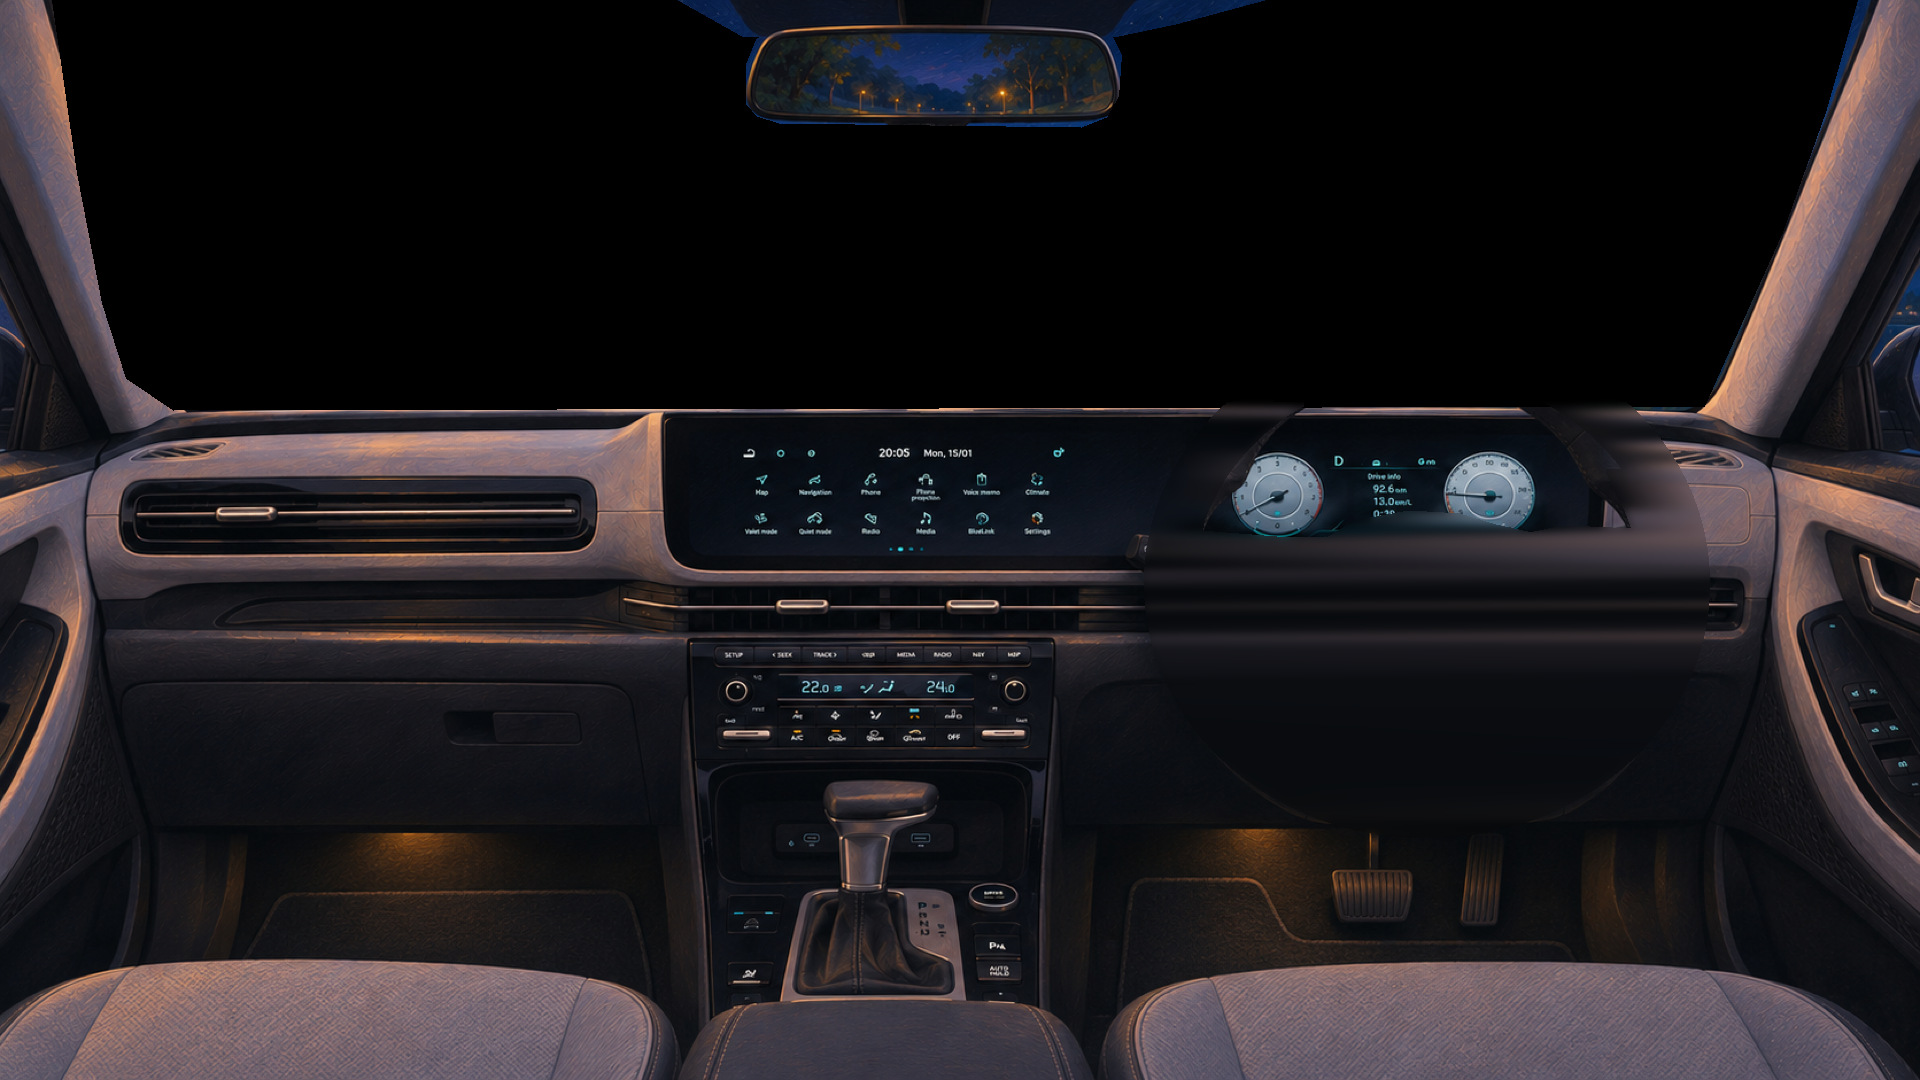
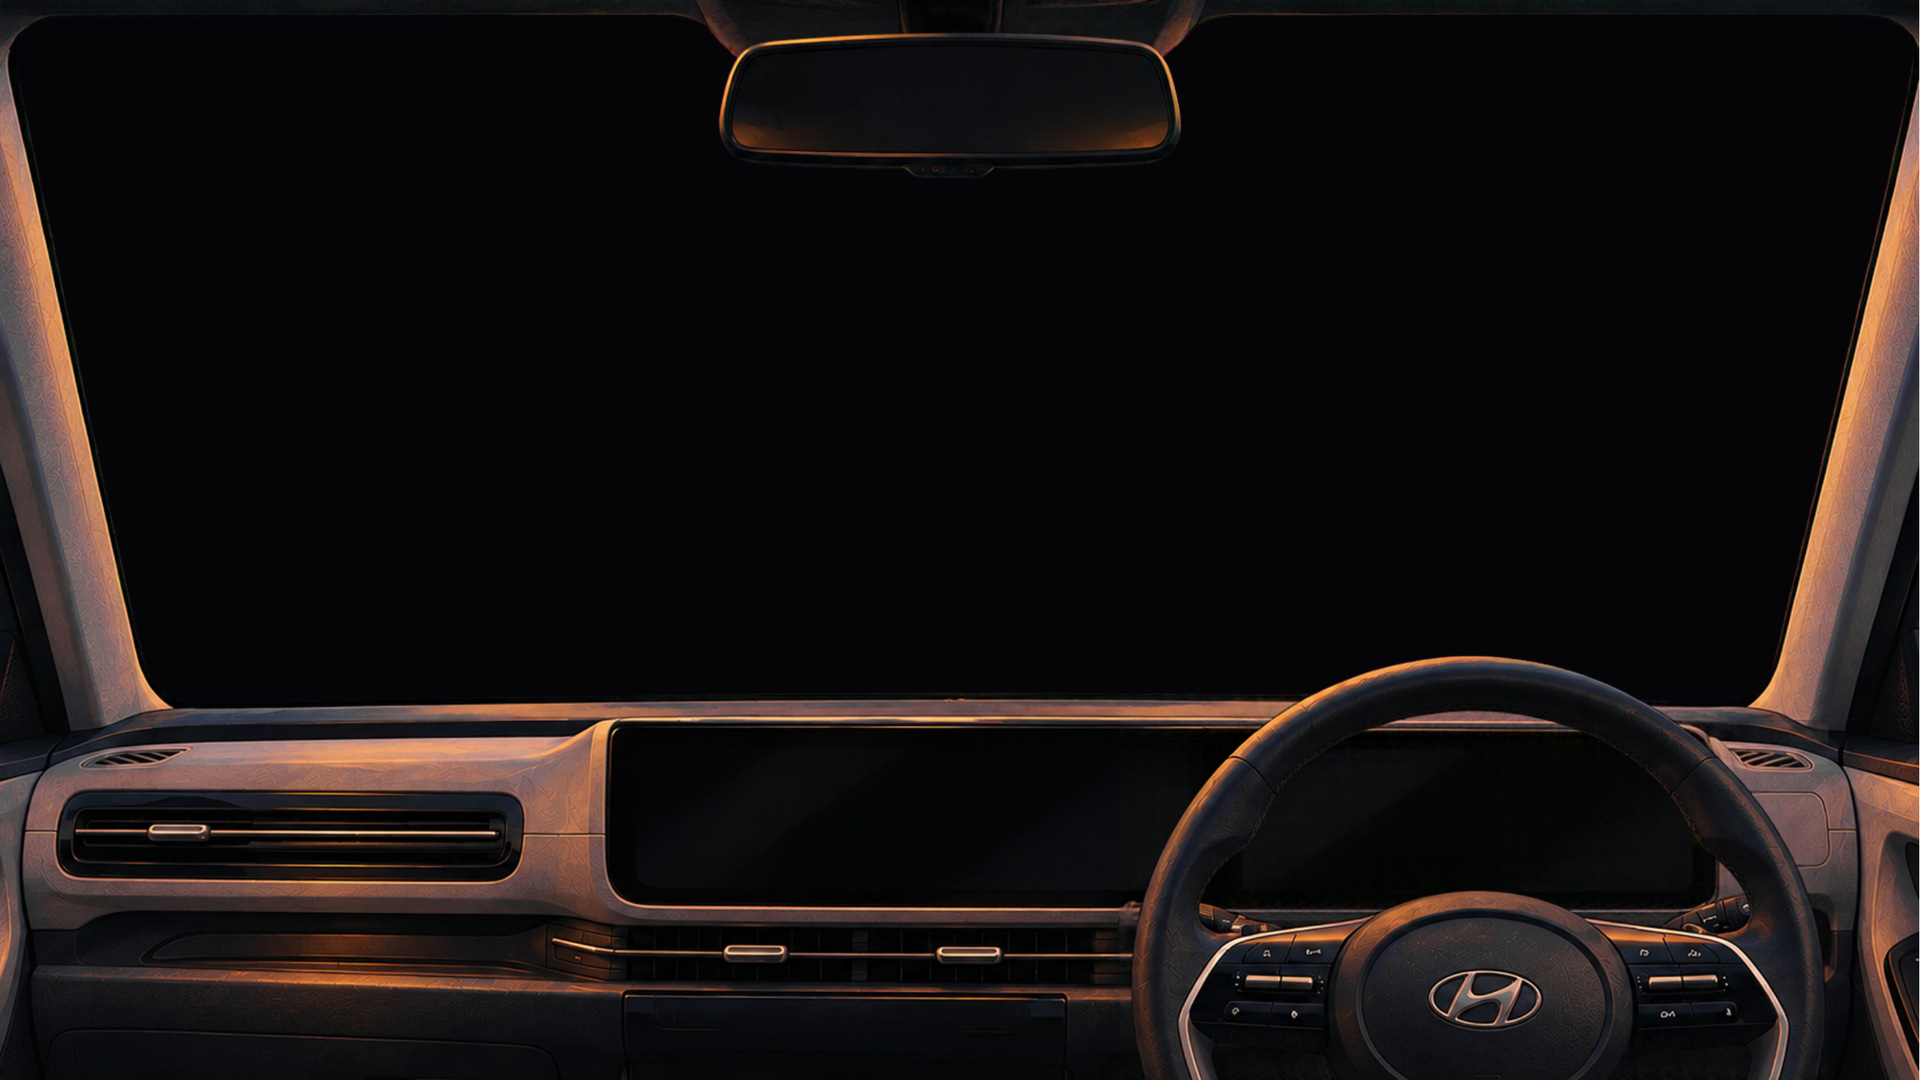
Night Drive: the Canva cabin, a mirror that reflects, version 1.2.1
- A new painted cabin, made in Canva from the original painting: the
  windscreen fills most of the view, with only the dashboard, the dual
  display and the top half of the wheel below. Its windows were painted as
  flat chroma key, so the glass (and the A-pillars) come straight from the
  picture.
- The steering wheel is part of the painting again (no more rotation
  artefacts or clipped rim).
- The rear-view mirror shows the road behind, receding.
- The dual display shows the song's bars on the infotainment side and the
  live cluster behind the wheel, drawn only where the panel is visible.
- The horizon sits lower, so more road shows; raindrops no longer get cut at
  their grid's seams; calmer glare on the road lines.

Claude-Session: https://claude.ai/code/session_01Dq9uaYLZ14tYd3nuL5CVKq

diff --git a/Sources/Encore/UI/Visualizers/MetalShaders.swift b/Sources/Encore/UI/Visualizers/MetalShaders.swift
@@ -736,8 +736,8 @@ static float3 driveRain(float2 uv, float t, float since) {
         float2 f = fract(g) - 0.5;
         float h = hash2(id + fl * 11.0);
         if (h > 0.45 && fract(h * 31.0) < fill) {
-            float2 o = (float2(hash2(id + 1.7), hash2(id + 4.3)) - 0.5) * 0.6;
-            float r = 0.16 + 0.22 * fract(h * 17.0);
+            float2 o = (float2(hash2(id + 1.7), hash2(id + 4.3)) - 0.5) * 0.36;   // drops stay inside their cell
+            float r = 0.13 + 0.16 * fract(h * 17.0);
             float2 dp = (f - o) * float2(1.0, 1.15);
             float m = 1.0 - smoothstep(r * 0.8, r, length(dp));
             off += dp / r * 0.012 * m;
@@ -754,7 +754,7 @@ static float3 driveRain(float2 uv, float t, float since) {
     off += dp / 0.009 * 0.012 * m;
     mask = max(mask, m);
     float trail = (1.0 - smoothstep(0.0015, 0.003, abs(x))) * smoothstep(y, y + 0.25, uv.y) * step(uv.y, y + 0.25) * on;
-    return float3(off, max(mask, trail * 0.5));
+    return float3(off, max(mask, trail * 0.25));
 }
 
 // ================================================================ Night Drive (lofi)
@@ -1357,8 +1357,8 @@ static float3 pdUntonemap(float3 v) {
 // lights add HDR on top so they bloom. Coordinates: painting pixels (1920x1080,
 // y down), the painted cabin's space.
 
-#define NW_HZ 345.0
-#define NW_VX 905.0
+#define NW_HZ 468.0
+#define NW_VX 1180.0
 #define NW_F 1150.0
 #define NW_CAMH 1.3
 #define NW_SPEED 12.5
@@ -1467,7 +1467,7 @@ static float3 nwWorld(float2 ip, float t, float bass, float pxs,
             float dash = smoothstep(0.0, aw, ph) * (1.0 - smoothstep(0.32, 0.32 + aw, ph));
             float edge = clamp((0.075 - abs(au - 3.4)) / mpp + 0.5, 0.0, 1.0) * min(1.0, 0.15 / mpp);
             float mark = max(cl * dash, edge) * (1.0 - 0.5 * far);
-            col = mix(asphalt, float3(0.82, 0.82, 0.78), mark);
+            col = mix(asphalt, float3(0.62, 0.62, 0.6), mark);
             if (au > 3.55) {
                 float3 verge = mix(float3(0.10, 0.10, 0.11), float3(0.05, 0.10, 0.07), smoothstep(4.0, 4.8, au));
                 col = verge * (0.85 + 0.3 * grain);
@@ -1652,28 +1652,41 @@ static float3 pdDial(float2 ip, float2 c, float R, float v, float majors, float 
     return col;
 }
 
-static float3 pdCluster(float2 ip, float3 col, float t, float bass) {
-    float panel = sdBox(ip - float2(1405.0, 486.0), float2(208.0, 78.0), 16.0);
-    if (panel > 3.0) return col;
-    float m = 1.0 - smoothstep(-1.0, 1.0, panel);
-    float3 bg = mix(float3(0.006, 0.01, 0.022), float3(0.015, 0.025, 0.05), smoothstep(564.0, 408.0, ip.y));
-    bg += float3(0.0, 0.04, 0.07) * exp(-length(ip - float2(1276.0, 480.0)) / 60.0);
-    bg += float3(0.0, 0.04, 0.07) * exp(-length(ip - float2(1534.0, 480.0)) / 60.0);
-    // a thin line under the top edge, and the road graphic in the middle
-    bg += float3(0.1, 0.35, 0.5) * exp(-abs(ip.y - 414.0) / 0.8) * step(abs(ip.x - 1405.0), 120.0) * 0.4;
+// The cluster's picture, centred between two dials (the screen mask shapes it).
+static float3 pdCluster(float2 ip, float t, float bass) {
+    float2 c = float2(1475.0, 814.0);
+    float3 bg = mix(float3(0.006, 0.01, 0.022), float3(0.014, 0.024, 0.048), smoothstep(905.0, 727.0, ip.y));
+    bg += float3(0.0, 0.04, 0.07) * exp(-length(ip - (c - float2(130.0, 0.0))) / 62.0);
+    bg += float3(0.0, 0.04, 0.07) * exp(-length(ip - (c + float2(130.0, 0.0))) / 62.0);
+    bg += float3(0.1, 0.35, 0.5) * exp(-abs(ip.y - 738.0) / 0.8) * step(abs(ip.x - c.x), 110.0) * 0.4;
     float speed = pdNwSpeed(t);
     float rpm = 1450.0 + speed * 9.0 + 220.0 * bass + 60.0 * sin(t * 1.7);
-    bg = pdDial(ip, float2(1276.0, 482.0), 60.0, rpm / 8000.0, 8.0, 0.75, bg);
-    bg = pdDial(ip, float2(1534.0, 482.0), 60.0, speed / 220.0, 11.0, 2.0, bg);
-    // bezel
-    bg += float3(0.25, 0.3, 0.38) * exp(-abs(panel + 1.0) / 0.9) * 0.35;
-    return mix(col, bg, m);
+    bg = pdDial(ip, c - float2(130.0, 0.0), 64.0, rpm / 8000.0, 8.0, 0.75, bg);
+    bg = pdDial(ip, c + float2(130.0, 0.0), 64.0, speed / 220.0, 11.0, 2.0, bg);
+    return bg;
+}
+
+// The infotainment: a soft backdrop in the artwork's colours and the song's
+// spectrum as LED bars (the title is drawn natively above them).
+static float3 pdInfotainment(float2 ip, constant Uniforms &u, texture2d<float> specTex) {
+    float2 sMin = float2(626.0, 735.0), sMax = float2(1140.0, 896.0);
+    float2 q = (ip - (sMin + sMax) * 0.5) / ((sMax - sMin) * 0.5);
+    q.y = -q.y;
+    float3 bg = mix(float3(0.02, 0.03, 0.08), float3(0.06, 0.05, 0.12), q.y * 0.5 + 0.5);
+    bg += u.p1.rgb * 0.06 * (1.0 - length(q * float2(0.6, 1.0)));
+    float bars = 32.0;
+    float bx = (q.x * 0.5 + 0.5) * bars;
+    float v = spec(specTex, floor(bx) / bars * 0.9);
+    float barTop = -0.9 + v * 0.75;
+    float colBar = step(0.2, fract(bx)) * step(fract(bx), 0.8) * step(-0.9, q.y) * step(abs(q.x), 1.0);
+    float3 barCol = mix(float3(0.3, 0.9, 1.0), u.p0.rgb, smoothstep(-0.9, -0.2, q.y));
+    bg += barCol * colBar * step(q.y, barTop) * 0.9 + barCol * colBar * exp(-max(q.y - barTop, 0.0) * 25.0) * 0.1;
+    return bg;
 }
 
 static float4 pdScene(float2 fc, constant Uniforms &u, texture2d<float> specTex,
                       texture2d<float> cabin, texture2d<float> masks2,
-                      texture2d<float> sky, texture2d<float> trees, texture2d<float> treesA,
-                      texture2d<float> wheel, texture2d<float> wheelA) {
+                      texture2d<float> sky, texture2d<float> trees, texture2d<float> treesA) {
     float2 sz = float2(PD_W, PD_H);
     float s = max(u.res.x / PD_W, u.res.y / PD_H);
     float2 o = (u.res - sz * s) * 0.5;
@@ -1682,12 +1695,13 @@ static float4 pdScene(float2 fc, constant Uniforms &u, texture2d<float> specTex,
     float t = u.time;
     float px = 1.0 / (PD_H * s);
     float pxs = 1.0 / (NW_F * s);
-    float glass = 1.0 - masks2.sample(linearSampler, ip / sz).r;
+    float4 mk = masks2.sample(linearSampler, ip / sz);
+    float glass = 1.0 - mk.r, mirror = mk.g, screen = mk.b;
     float3 view = float3(0.0);
     if (glass > 0.002) {
         // rain on the glass and the wipers (pivots at the foot of the windshield)
         float blade;
-        float2 wp = p - float2(0.06, 0.215);
+        float2 wp = (p - float2(0.06, -0.12)) * 0.62;
         float since = drvWipe(wp, t, blade);
         float3 r = driveRain(wp, t, since);
         float2 refr = float2(r.x, -r.y) * PD_H;
@@ -1697,53 +1711,32 @@ static float4 pdScene(float2 fc, constant Uniforms &u, texture2d<float> specTex,
             view = mix(view, sharp * 1.1 + 0.015, r.z * 0.7);
         }
         view *= 0.94 + 0.06 * (1.0 - r.z);
-        // the blades only while they sweep (parked, they sit below the bonnet line)
         float sweeping = step(t - 7.0 * floor(t / 7.0), 1.32);
-        view = mix(view, float3(0.012, 0.012, 0.018), clamp(0.5 - blade / px, 0.0, 1.0) * 0.95 * sweeping);
+        view = mix(view, float3(0.012, 0.012, 0.018), clamp(0.5 - blade / (px * 0.62), 0.0, 1.0) * 0.95 * sweeping);
     }
-
     // the painted cabin, lit by the lamps going by
     float3 cab = pdUntonemap(cabin.sample(linearSampler, ip / sz).rgb);
     float pass = nwLampPass(t) * (1.0 + 0.3 * u.bass);
-    float fromLeft = smoothstep(0.8, -0.7, p.x) * smoothstep(-0.45, 0.2, p.y);
-    float3 lit = cab * (1.0 + float3(1.0, 0.66, 0.36) * pass * 0.45 * fromLeft);
-    // infotainment: the song's LED bars (title drawn natively above them)
-    float2 sMin = float2(682.0, 428.0);
-    float2 sMax = float2(1106.0, 556.0);
-    float2 sc = (sMin + sMax) * 0.5;
-    float2 sh = (sMax - sMin) * 0.5;
-    float scr = sdBox(ip - sc, sh, 10.0);
-    if (scr < 1.0) {
-        float2 q = (ip - sc) / sh;
-        q.y = -q.y;
-        float3 sbg = mix(float3(0.02, 0.035, 0.09), float3(0.06, 0.05, 0.12), q.y * 0.5 + 0.5);
-        sbg += u.p1.rgb * 0.05 * (1.0 - length(q * float2(0.6, 1.0)));
-        float bars = 26.0;
-        float bx = (q.x * 0.5 + 0.5) * bars;
-        float v = spec(specTex, floor(bx) / bars * 0.9);
-        float barTop = -0.92 + v * 0.85;
-        float colBar = step(0.2, fract(bx)) * step(fract(bx), 0.8) * step(-0.92, q.y);
-        float3 barCol = mix(float3(0.3, 0.9, 1.0), u.p0.rgb, smoothstep(-0.9, -0.1, q.y));
-        sbg += barCol * colBar * step(q.y, barTop) * 0.9 + barCol * colBar * exp(-max(q.y - barTop, 0.0) * 25.0) * 0.1;
-        lit = mix(lit, sbg * 1.25, 1.0 - smoothstep(-1.0, 1.0, scr));
+    float fromLeft = smoothstep(0.8, -0.7, p.x) * smoothstep(-0.5, 0.0, p.y);
+    float3 lit = cab * (1.0 + float3(1.0, 0.66, 0.36) * pass * 0.4 * fromLeft);
+    // the rear-view mirror: the road behind, receding (a mirror keeps the hillside on the left)
+    if (mirror > 0.01) {
+        float2 mc = float2(947.0, 96.0), mh = float2(220.0, 54.0);
+        float2 mq = (ip - mc) / mh;                                   // -1...1 across the glass
+        float2 rip = float2(NW_VX + mq.x * 520.0, NW_HZ - 40.0 + mq.y * 150.0);
+        float3 rear = nwWorld(rip, -t - 30.0, u.bass * 0.5, pxs * 2.4, sky, trees, treesA);
+        rear = rear * float3(0.62, 0.66, 0.74) + 0.006;
+        rear *= 1.0 - 0.35 * pow(length(mq * float2(0.9, 1.0)), 3.0);
+        rear += float3(0.04, 0.05, 0.07) * smoothstep(0.2, -0.9, mq.y + mq.x * 0.3) * 0.5;   // a sheen across the glass
+        lit = mix(lit, rear, mirror);
     }
-    // the digital instrument cluster, live (the digits in the middle are drawn natively)
-    lit = pdCluster(ip, lit, t, u.bass);
-    lit *= 1.0 + 0.06 * u.beat * smoothstep(80.0, 0.0, abs(ip.y - 490.0));       // screens breathe on the beat
+    // the dual display: infotainment on the left, the cluster behind the wheel
+    if (screen > 0.01) {
+        float3 disp = ip.x < 1150.0 ? pdInfotainment(ip, u, specTex) : (ip.x < 1236.0 ? float3(0.008, 0.012, 0.026) : pdCluster(ip, t, u.bass));
+        disp *= 1.0 + 0.06 * u.beat;
+        lit = mix(lit, disp, screen);
+    }
     float3 col = mix(lit, view, glass);
-    // the steering wheel, turning with the road
-    float steer = clamp(nwCurve(t) * 310.0, -0.26, 0.26) + 0.008 * sin(t * 0.6);
-    float2 wc = float2(1426.5, 583.0);
-    float2 rel = ip - wc;
-    float cs = cos(steer), sn = sin(steer);
-    float2 wp2 = float2(cs * rel.x + sn * rel.y, -sn * rel.x + cs * rel.y) + wc - float2(1140.0, 326.0);
-    float2 wuv = wp2 / float2(574.0, 516.0);
-    if (wuv.x > 0.0 && wuv.y > 0.0 && wuv.x < 1.0 && wuv.y < 1.0) {
-        float wa = wheelA.sample(linearSampler, wuv).r;
-        float3 wcol = pdUntonemap(wheel.sample(linearSampler, wuv).rgb);
-        wcol *= 1.0 + float3(1.0, 0.66, 0.36) * pass * 0.35 * fromLeft;
-        col = mix(col, wcol, wa);
-    }
     float outside = min(step(ip.x, 0.0) + step(PD_W, ip.x) + step(ip.y, 0.0) + step(PD_H, ip.y), 1.0);
     col = mix(col, float3(0.012, 0.013, 0.02), outside);
     return float4(col, 1.0);
@@ -1756,11 +1749,9 @@ fragment float4 driveFragment(QuadOut in [[stage_in]],
                               texture2d<float> masks2 [[texture(4)]],
                               texture2d<float> sky [[texture(5)]],
                               texture2d<float> trees [[texture(8)]],
-                              texture2d<float> treesA [[texture(9)]],
-                              texture2d<float> wheel [[texture(10)]],
-                              texture2d<float> wheelA [[texture(11)]]) {
+                              texture2d<float> treesA [[texture(9)]]) {
     float2 fc = fragCoord(in.position, u);
-    if (u.pad1 > 0.5) return pdScene(fc, u, specTex, cabin, masks2, sky, trees, treesA, wheel, wheelA);
+    if (u.pad1 > 0.5) return pdScene(fc, u, specTex, cabin, masks2, sky, trees, treesA);
     return lofiScene(fc, u, specTex);
 }
 

diff --git a/Sources/Encore/UI/Visualizers/MetalSceneView.swift b/Sources/Encore/UI/Visualizers/MetalSceneView.swift
@@ -156,7 +156,7 @@ final class MetalContext {
     }
 
     /// Night Drive's art, as (texture, fragment slot): the painted Creta cabin
-    /// and its glass mask, the painted panorama outside, and the painted trees
+    /// and its masks (red: cabin, green: rear-view mirror glass, blue: the screens), the painted panorama outside, and the painted trees
     /// (colour and alpha kept apart so nothing is premultiplied). Nil if any is
     /// missing from the bundle.
     private(set) lazy var nightDrive: [(MTLTexture, Int)]? = {
@@ -164,7 +164,6 @@ final class MetalContext {
         let files: [(String, Int, Bool)] = [
             ("drive-cabin.jpg", 3, false), ("drive-masks2.png", 4, false), ("drive-sky.jpg", 5, true),
             ("drive-trees.jpg", 8, true), ("drive-trees-alpha.png", 9, true),
-            ("drive-wheel.jpg", 10, false), ("drive-wheel-alpha.png", 11, false),
         ]
         var textures: [(MTLTexture, Int)] = []
         for (name, slot, mips) in files {

diff --git a/Sources/Encore/UI/Visualizers/DriveOverlay.swift b/Sources/Encore/UI/Visualizers/DriveOverlay.swift
@@ -22,8 +22,8 @@ private struct PaintedScreensOverlay: View {
             let w = geo.size.width, h = geo.size.height
             let s = max(w / 1920, h / 1080)
             let ox = (w - 1920 * s) / 2, oy = (h - 1080 * s) / 2
-            let info = CGRect(x: ox + 700 * s, y: oy + 438 * s, width: 390 * s, height: 56 * s)
-            let speed = CGRect(x: ox + 1359 * s, y: oy + 448 * s, width: 92 * s, height: 72 * s)
+            let info = CGRect(x: ox + 652 * s, y: oy + 752 * s, width: 470 * s, height: 62 * s)
+            let speed = CGRect(x: ox + 1429 * s, y: oy + 776 * s, width: 92 * s, height: 72 * s)
             ZStack {
                 InfotainmentText()
                     .frame(width: info.width, height: info.height)

diff --git a/README.md b/README.md
@@ -37,7 +37,7 @@ Encore fixes that:
 | **Video mode** | The video fills the window (cinema layout). Toggle back to the full YouTube page for comments and descriptions. |
 | **Audio mode** | Hides the video and keeps streaming at the highest quality YouTube offers, which brings its best audio too. A 144p data saver is available if you want it. The screen shows a full-bleed visualiser over a blurred backdrop taken from the video's artwork. |
 | **Around playback** | **SponsorBlock** skips sponsors, self-promotion, reminders and the non-music parts of music videos (community data; only a short hash of the video ID is sent), with Undo. **Chapters** from the description: the current one on Now Playing, a list to jump around, ⇧⌘← / ⇧⌘→ between them. **Crossfade** between videos (off, 3, 6 or 10 seconds): the end of one fades out and the next fades in, without touching your volume setting. **Sleep timer** (15–90 minutes or the end of the video) that fades out before pausing. Long videos **resume where you left off**. Optional **notifications** when the track changes in the background. |
-| **10 visualisers** | **Canvas:** Spectrum (a mirrored spectrum that drifts slowly through the colour wheel). **GPU (Metal):** Night Drive (from the seat of a painted 2024–25 Creta, an endless drive along a lake road at night: a painted moonlit panorama of misty mountains and a still lake, painted broadleaf trees streaming past with true parallax under the street lamps, rain and wipers, a live digital instrument cluster and a steering wheel that turns with the bends), Classic (an LED spectrum analyser with falling peak caps and a phosphor oscilloscope), Warp (MilkDrop-style tunnels of colour fed by the live waveform), Aurora (northern lights over a lake), Halo (the artwork as a turning record ringed by the spectrum), Silk (flowing satin in the artwork's colours), Waves (a soft glow around the edges with breathing waveforms), plus Lyric Pop and Sing-Along. The GPU scenes share a film-style pipeline: HDR bloom, ACES tonemapping, a vignette and subtle grain. Beat detection and band levels relative to the song's own average drive the motion. Colours come from the artwork, and a badge shows **Live audio** or **Simulated**. |
+| **10 visualisers** | **Canvas:** Spectrum (a mirrored spectrum that drifts slowly through the colour wheel). **GPU (Metal):** Night Drive (from the seat of a painted 2024–25 Creta, an endless drive along a lake road at night: a painted moonlit panorama of misty mountains and a still lake, painted broadleaf trees streaming past with true parallax under the street lamps, rain and wipers, a windscreen that fills most of the view, a rear-view mirror showing the road behind, and the song and a live instrument cluster on the car's dual display), Classic (an LED spectrum analyser with falling peak caps and a phosphor oscilloscope), Warp (MilkDrop-style tunnels of colour fed by the live waveform), Aurora (northern lights over a lake), Halo (the artwork as a turning record ringed by the spectrum), Silk (flowing satin in the artwork's colours), Waves (a soft glow around the edges with breathing waveforms), plus Lyric Pop and Sing-Along. The GPU scenes share a film-style pipeline: HDR bloom, ACES tonemapping, a vignette and subtle grain. Beat detection and band levels relative to the song's own average drive the motion. Colours come from the artwork, and a badge shows **Live audio** or **Simulated**. |
 | **Synced lyrics** | **Lyric Pop** bursts each word onto the screen as it's sung, over a calm dusk sky; **Sing-Along** is a scrolling karaoke view beside the artwork (click a line to jump to it). Lyrics come from [LRCLIB](https://lrclib.net), a free, open lyrics database, matched by artist, title and length; hand-made YouTube captions are the fallback. Encore then lines the lyrics up with the video by listening to the song with on-device speech recognition (and the video's captions when it has them), fixing intros, skits and different edits; the chip shows the source, and you can nudge the timing or Option-click a line in Sing-Along to sync by hand. Lookups happen only while a lyrics style is on. |
 | **Menu bar player** | Artwork, a live mini spectrum, scrubber, controls, the Video/Audio switch and volume. Optionally shows the track title in the menu bar. |
 | **Mini player** | A floating, always-on-top panel (⇧⌘P). It shows the video in video mode and the visualiser in audio mode. |
